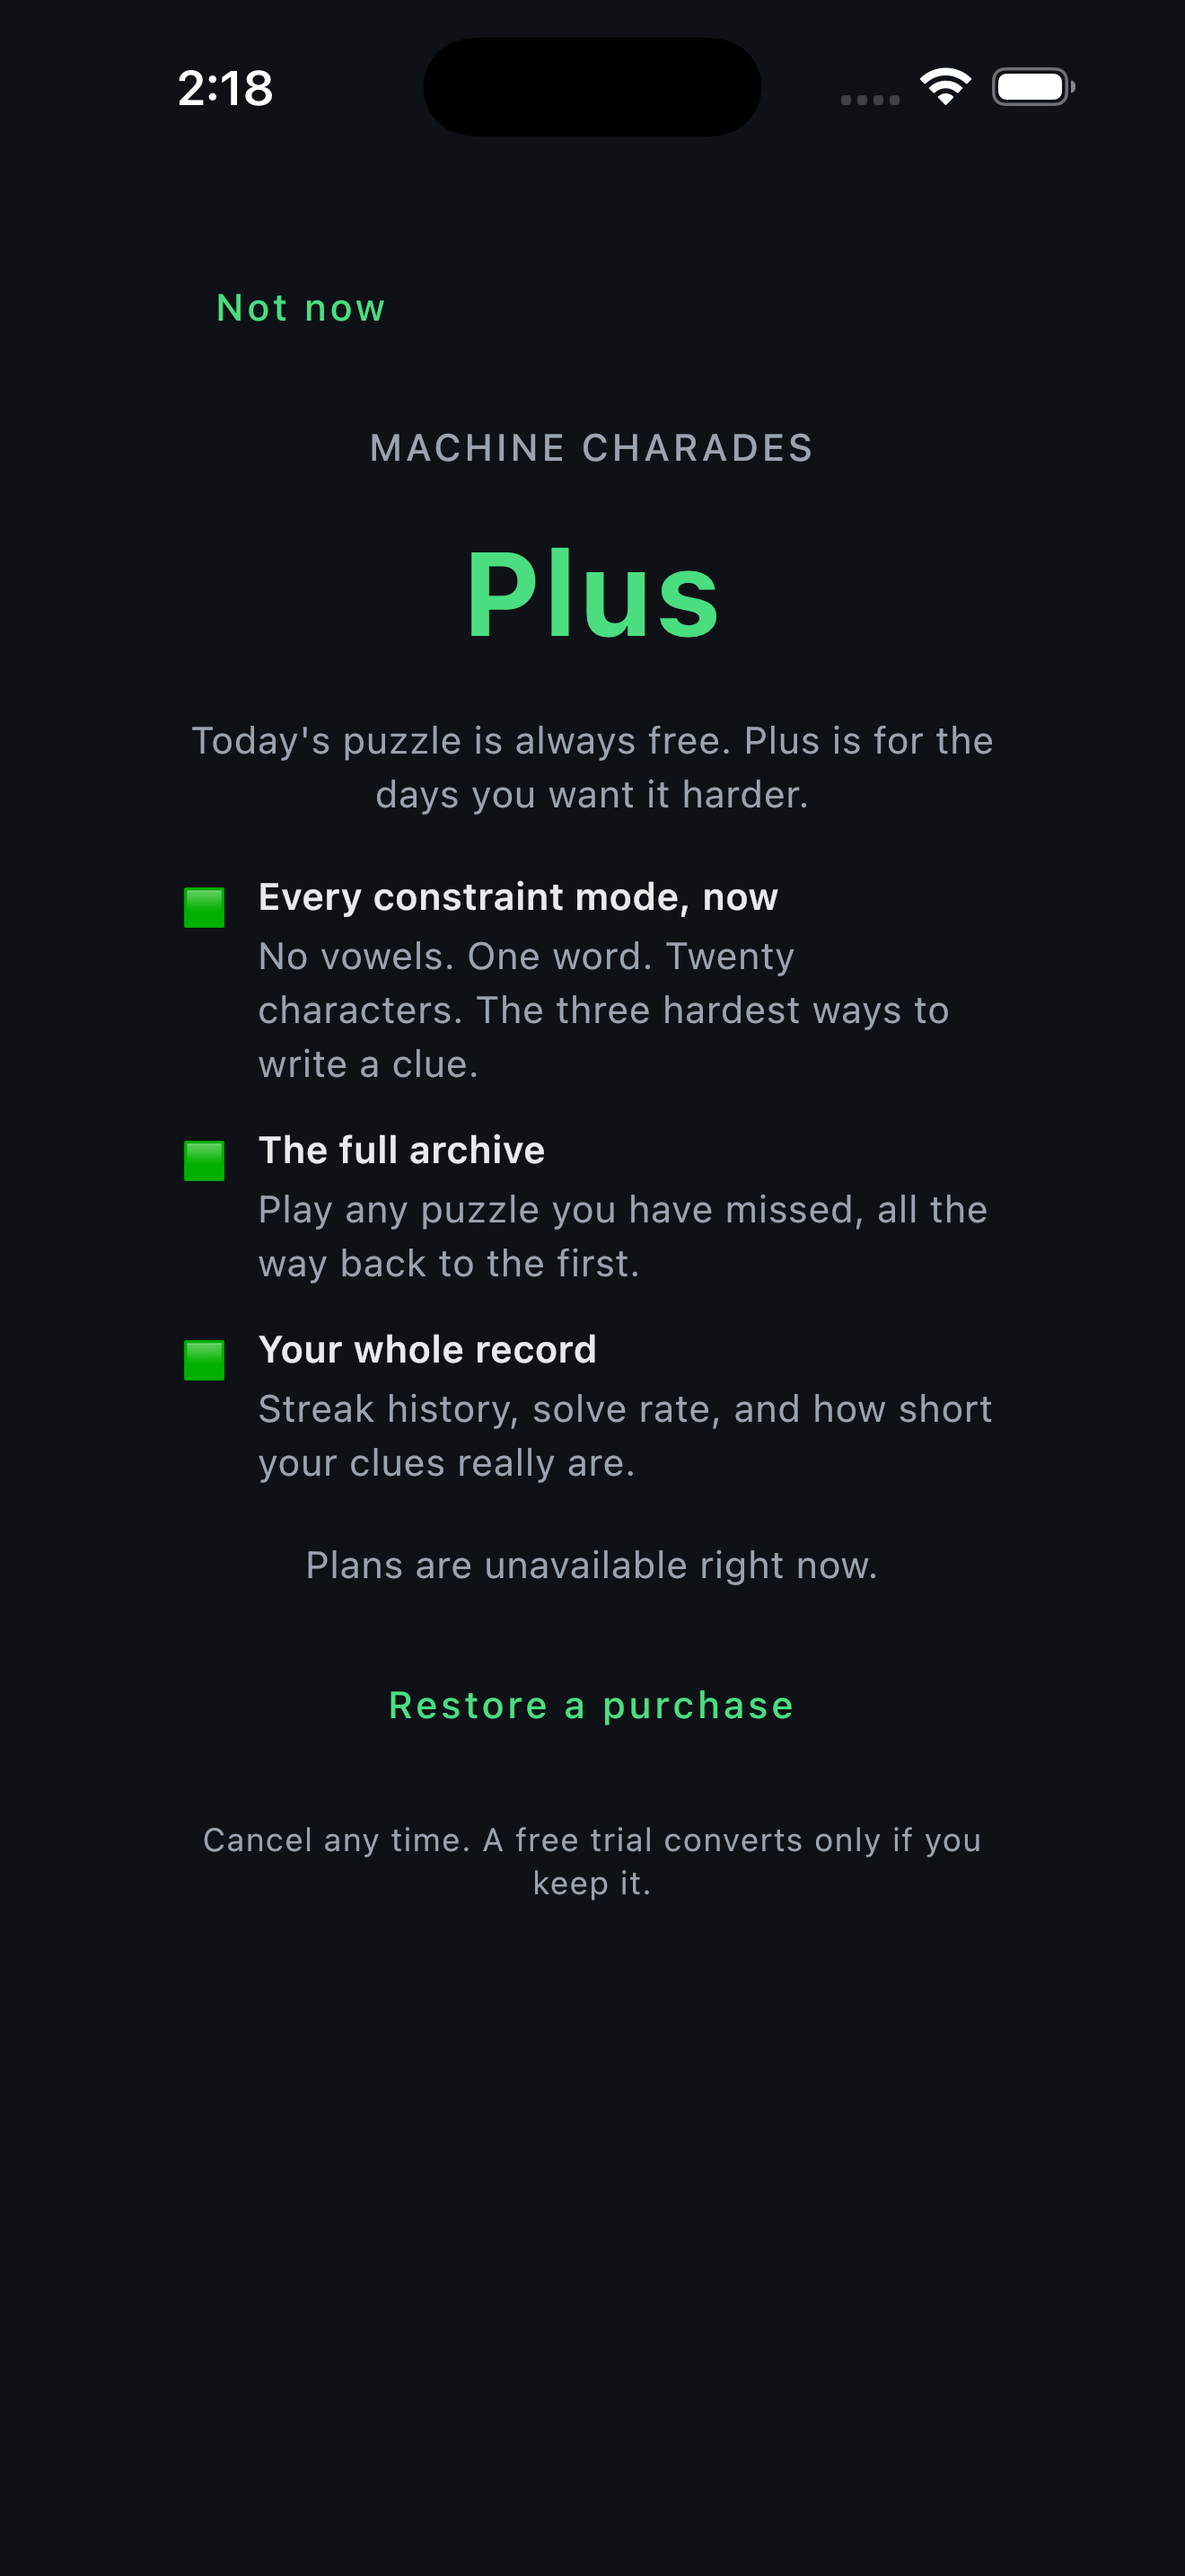
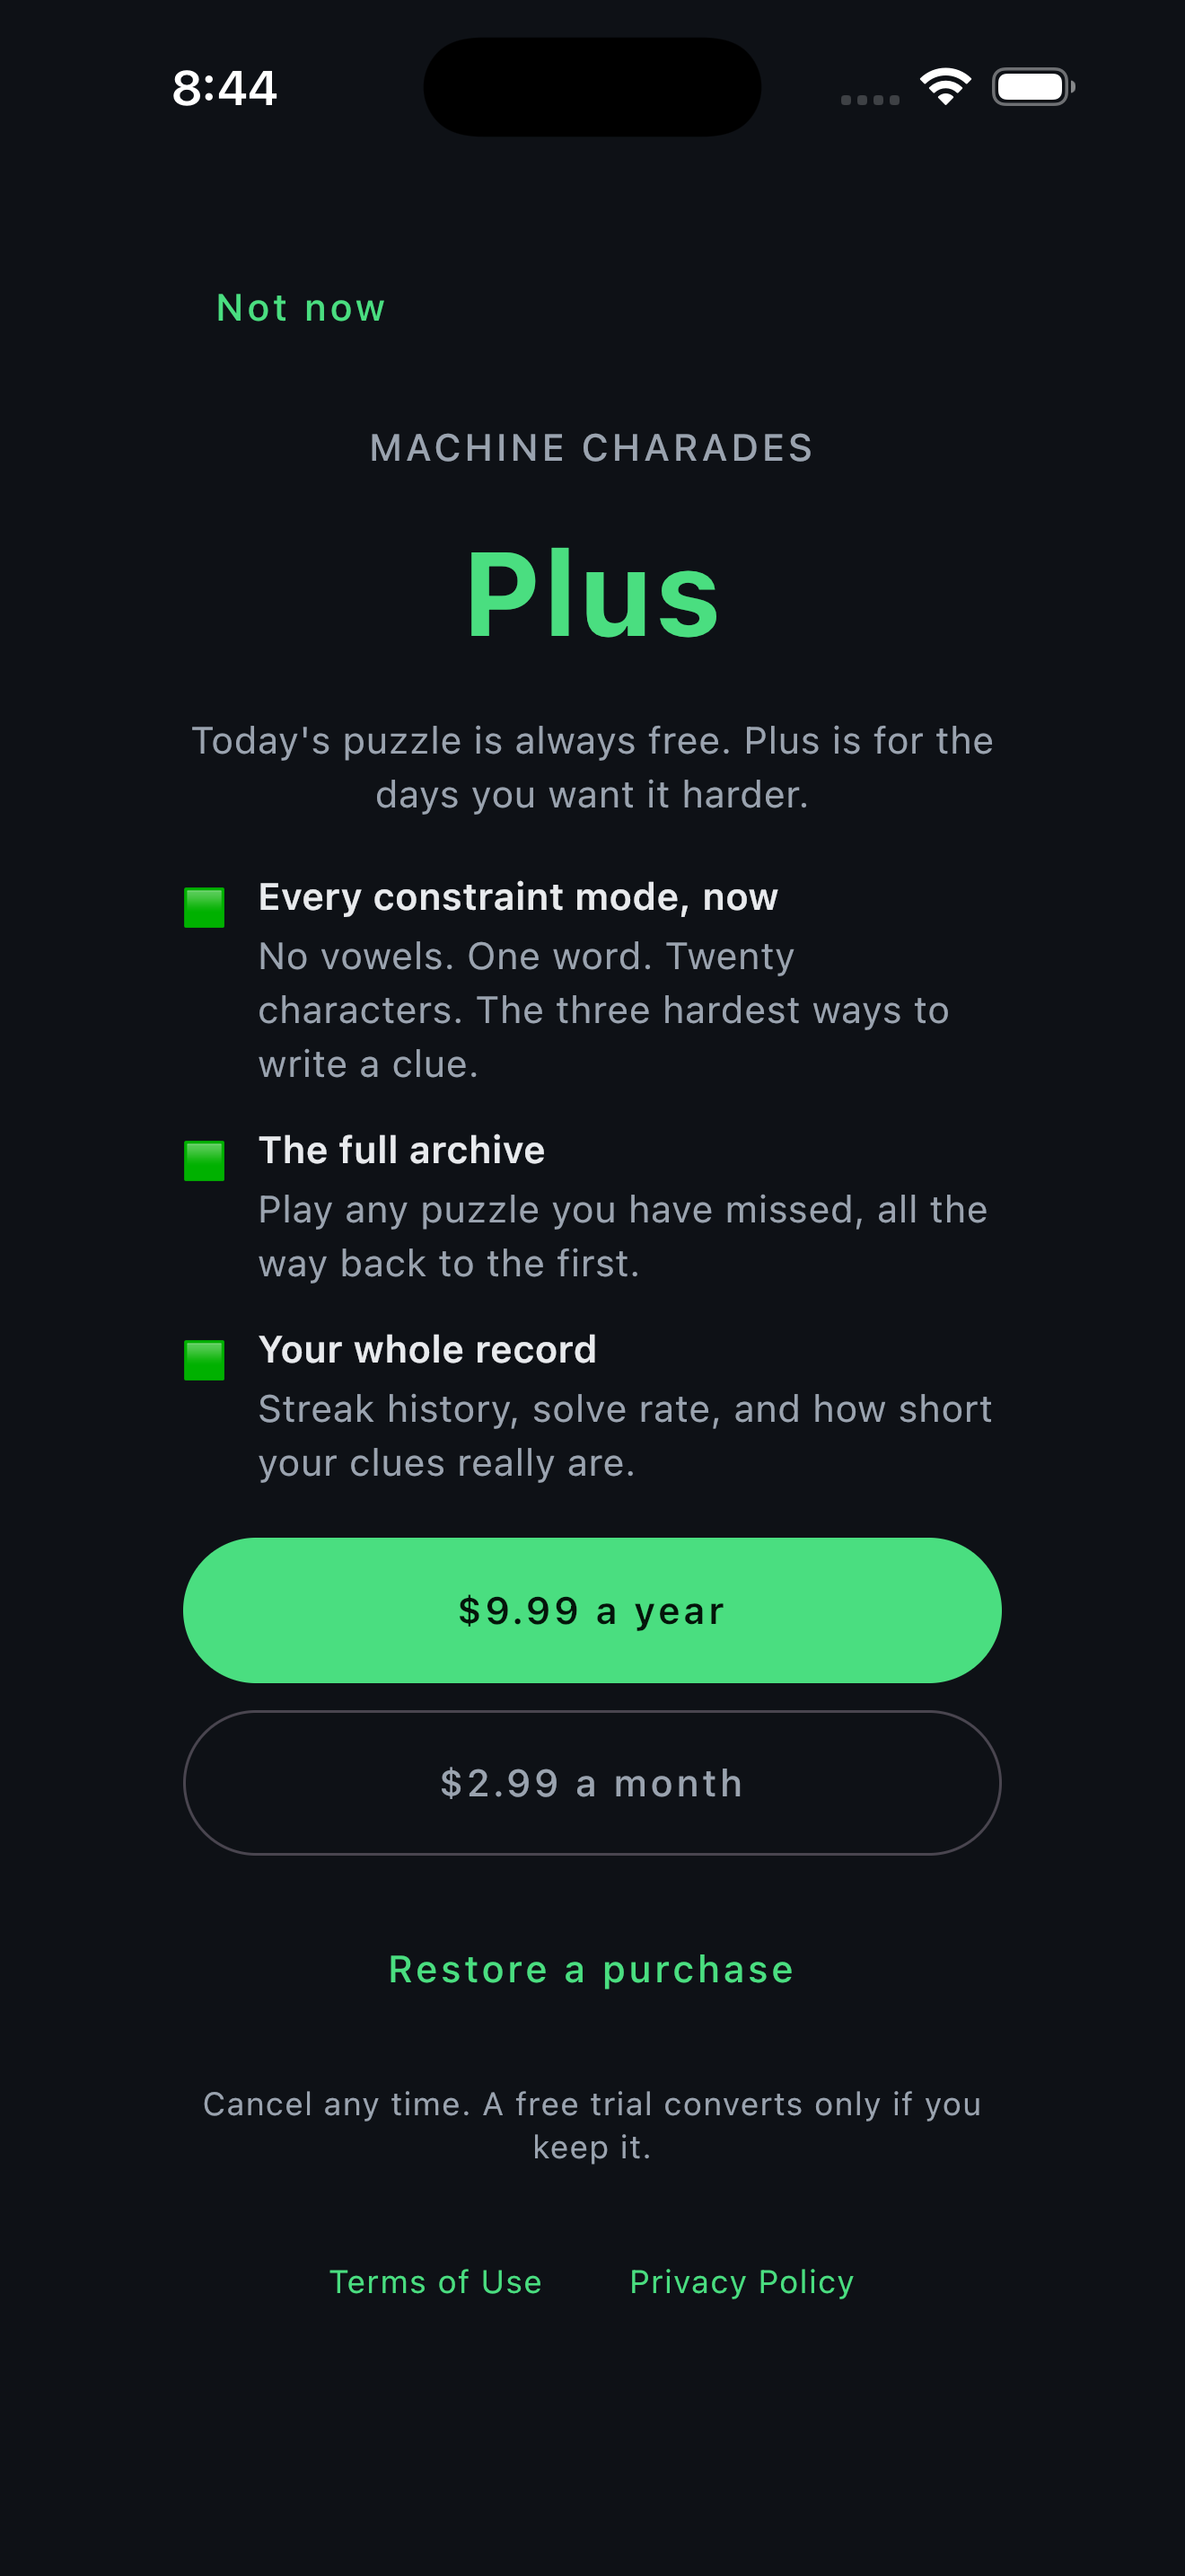
Put the subscription terms inside the app, where 3.1.2 wants them
App Review rejected 1.0 under 3.1.2 for offering auto-renewable
subscriptions without a functional Terms of Use link in the App Store
metadata. That half is fixed in the listing. This is the other half, which
the automated check did not raise but the guideline requires: the binary
itself must carry the subscription's title, length, price, and working
links to the terms and the privacy policy.

The paywall already showed the first three. It now shows the last two,
through Compose's LocalUriHandler so the links stay in commonMain and work
on both platforms rather than needing another expect/actual.

Build number goes to 2, since App Store Connect refuses a build number it
has already seen. The paywall screenshot is recaptured: the old one read
"Plans are unavailable right now", because it was taken before the Paid
Apps agreement went active and StoreKit would return no products.

diff --git a/shared/src/commonMain/kotlin/com/machinecharades/ui/Paywall.kt b/shared/src/commonMain/kotlin/com/machinecharades/ui/Paywall.kt
@@ -8,11 +8,24 @@ import androidx.compose.material3.*
 import androidx.compose.runtime.*
 import androidx.compose.ui.Alignment
 import androidx.compose.ui.Modifier
+import androidx.compose.ui.platform.LocalUriHandler
 import androidx.compose.ui.text.font.FontWeight
 import androidx.compose.ui.text.style.TextAlign
 import androidx.compose.ui.unit.dp
 import androidx.compose.ui.unit.sp
 import com.machinecharades.data.Plan
+
+/**
+ * App Review guideline 3.1.2 requires an app selling auto-renewable
+ * subscriptions to carry the title, length, price, and functional links to
+ * both the terms and the privacy policy *inside the binary* — the store
+ * listing alone is not enough. The first three were already here; these are
+ * the links.
+ */
+private const val TERMS_URL =
+    "https://www.apple.com/legal/internet-services/itunes/dev/stdeula/"
+private const val PRIVACY_URL =
+    "https://tushartechs.github.io/machine-charades/privacy.html"
 
 /**
  * The Plus paywall.
@@ -111,6 +124,16 @@ fun Paywall(
                 color = MaterialTheme.colorScheme.onSurfaceVariant,
                 textAlign = TextAlign.Center,
             )
+
+            val uriHandler = LocalUriHandler.current
+            Row(horizontalArrangement = Arrangement.spacedBy(8.dp)) {
+                TextButton({ uriHandler.openUri(TERMS_URL) }) {
+                    Text("Terms of Use", style = MaterialTheme.typography.bodySmall)
+                }
+                TextButton({ uriHandler.openUri(PRIVACY_URL) }) {
+                    Text("Privacy Policy", style = MaterialTheme.typography.bodySmall)
+                }
+            }
         }
     }
 }
